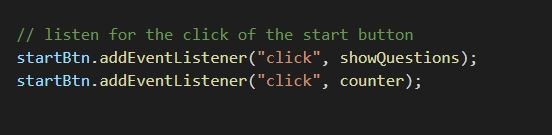
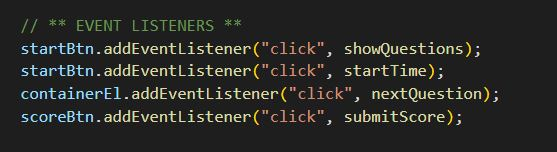
updated readme and added a goback button

Changed region(s): [[0.0308, 0.1185, 0.8931, 0.6815], [0.0308, 0.7111, 0.8315, 0.8296]]

diff --git a/assets/js/script.js b/assets/js/script.js
@@ -11,8 +11,6 @@ let responseEl = document.querySelector("#response-container");
 let highscoreEl = document.querySelector("#highscores");
 let mainEl = document.querySelector("#page");
 
-// let highScoreArr = [];
-
 // QUIZ QUESTIONS AND ANSWERS
 let myQuizQuestions = [
     {
@@ -48,19 +46,14 @@ let myQuizQuestions = [
 ];
 let myQuizAnswers = ['Arguments', 'camelWalk', 'An if statement','The variables are equal in type and value', ' // '];
 
-//QUESTION INDEX VARIABLES
+//TIMER & QUESTION INDEX VARIABLES
 let lastQuestionIndex = myQuizQuestions.length - 1;
 let currentQuestionIndex = 0;
-
+let time = 100;
 
 // **  END PAGE VARIABLES **
 
-
 // ** START TIMER **
-// Start the timer at 100 seconds (or 100 points for high score)
-let time = 100;
-
-// TIMER FUNCTION: START AND DISPLAY CURRENT TIME
 function startTime() {
     countdown = setInterval(function() {
         timerEl.textContent = time;
@@ -84,7 +77,7 @@ function removeText() {
 
 
 
-// ** QUESTION CREATION AND DISPLAY
+// ** QUIZ FUNCTIONS **
 
 // Create and display initial question
 let showQuestions = function(event) {
@@ -185,16 +178,23 @@ let submitScore = function() {
     timerEl.innerHTML = "";
     mainEl.innerHTML = "";
 
-
     var allHighScores = JSON.parse(localStorage.getItem("highscore"));
     highscoreEl.innerHTML = "<h3>" + allHighScores.user + "  " + allHighScores.score + "</h3>";
+
+    let goBackBtn = document.createElement("button")
+    goBackBtn.innerHTML = "<h3>" + "Go Back to Quiz" + "</h3>";
+    goBackBtn.setAttribute("onclick", "https://erin-michon.github.io/code-quiz/")
+    mainEl.appendChild(goBackBtn);
 };
 
 
-// ** EVENT LISTENERS **
+// ** END QUIZ FUNCTIONS **
+
+
+// ** START EVENT LISTENERS **
 startBtn.addEventListener("click", showQuestions);
 startBtn.addEventListener("click", startTime);
 containerEl.addEventListener("click", nextQuestion);
 scoreBtn.addEventListener("click", submitScore);
 
-
+// ** END EVENT LISTENERS **

diff --git a/README.md b/README.md
@@ -1,5 +1,6 @@
 # JavaScript Quiz!
 
+ ## Description:
 **This is a README fort the creation of a JavaScript quiz, developed using my newly acquired skills in the use of Web API's, JavaScript, CSS and HTML.  Some of the methods and skills I used are noted below:**
 
 * Comments were added to the script.js file as pseudocode and organization purposes:
@@ -8,7 +9,7 @@
 
 
 * The questions were defined on a global scope for reference and use throughout by various functions:
-* An eventListener was utilized to initiate the the quiz and the timer:
+* An eventListener was utilized to initiate the the quiz, timer and also to listen for answers and for the user to submit a highscore:
 
 ![image info](./assets/images/eventlisten.JPG)
 
@@ -26,17 +27,3 @@
 * [JavaScript Quiz](https://erin-michon.github.io/code-quiz/)
 
 
-## Future Goals
-* Obtain support and work to complete the full acceptance criteria shown below:
-
-    * GIVEN I am taking a code quiz
-    * WHEN I click the start button
-    * THEN a timer starts and I am presented with a question
-    * WHEN I answer a question
-    * THEN I am presented with another question
-    * WHEN I answer a question incorrectly
-    * THEN time is subtracted from the clock
-    * WHEN all questions are answered or the timer reaches 0
-    * THEN the game is over
-    * WHEN the game is over
-    * THEN I can save my initials and score
